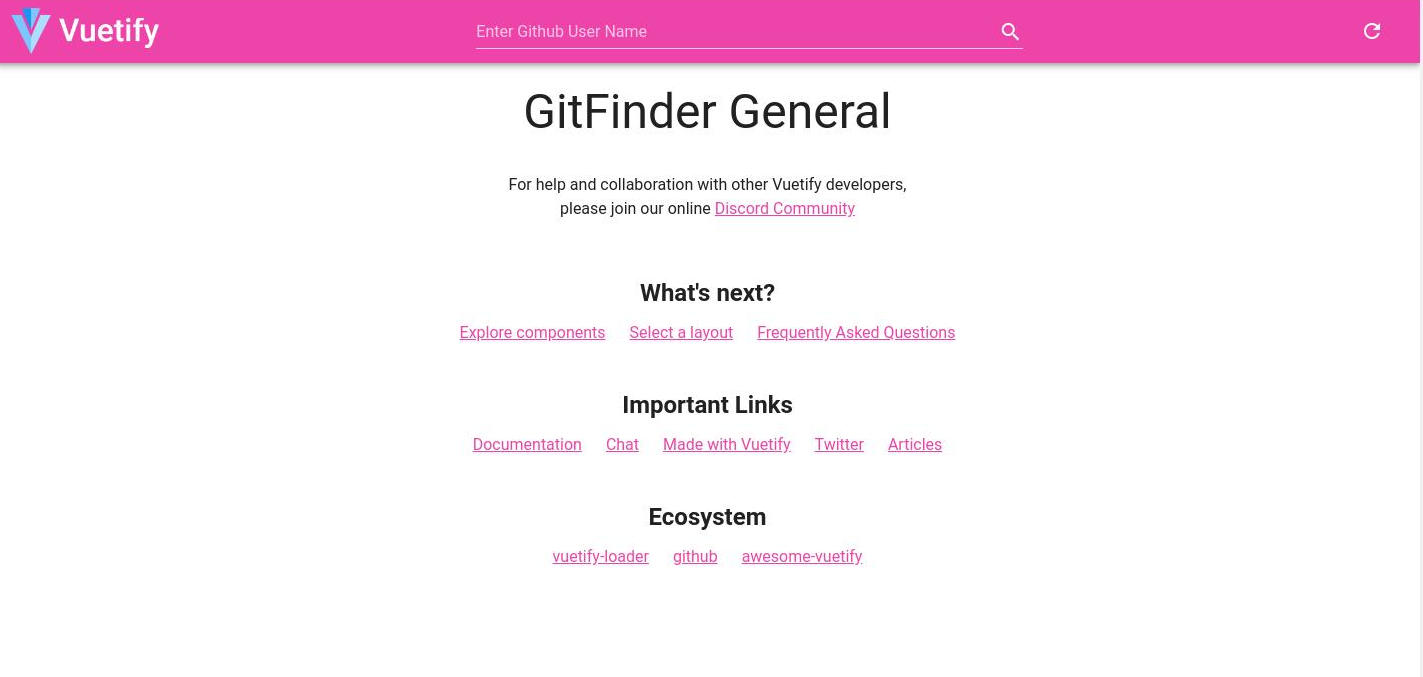
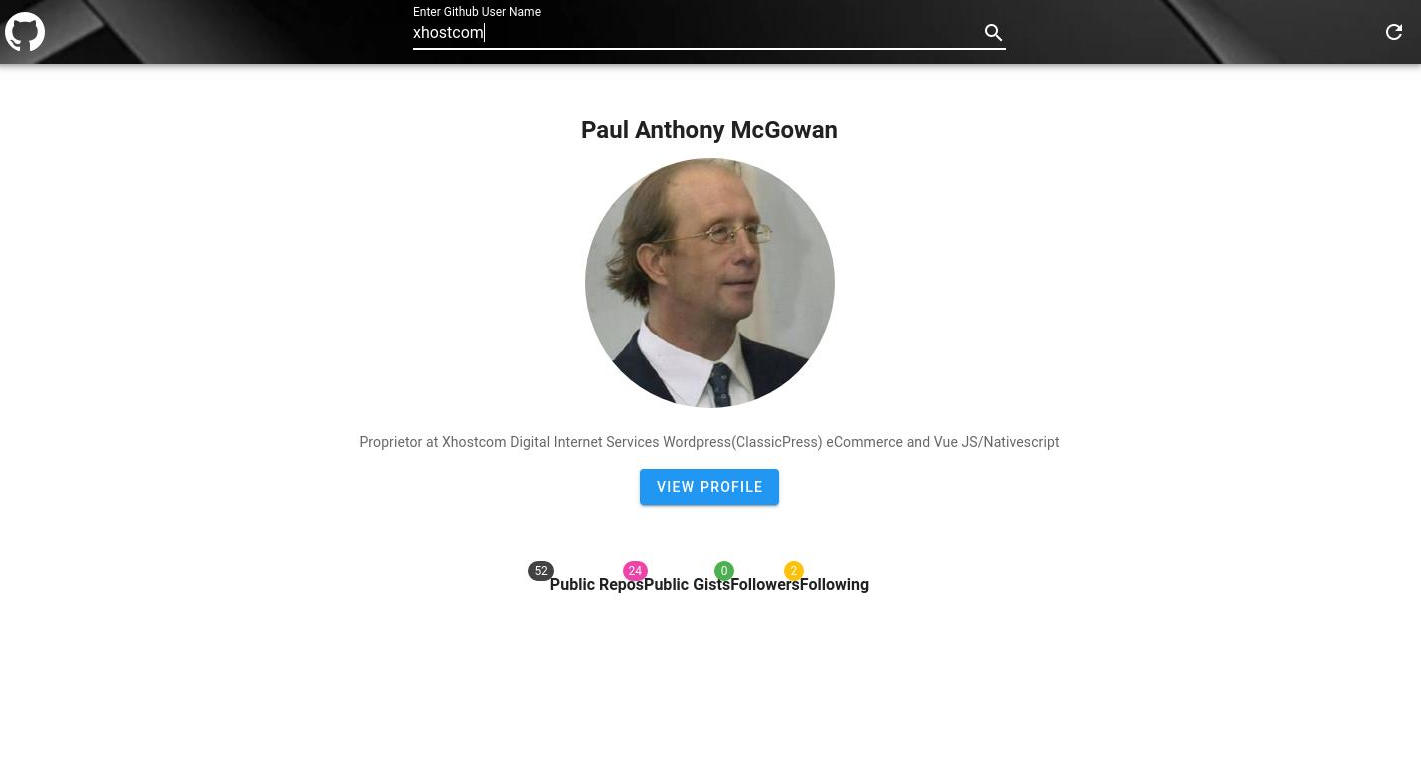
Update

Changed region(s): [[0.0, 0.0, 1.0, 0.6824], [0.3716, 0.7445, 0.6193, 0.8375]]

diff --git a/src/App.vue b/src/App.vue
@@ -23,47 +23,89 @@
           ></v-text-field>
          <v-spacer></v-spacer>
          <v-btn
-        to="/"
-        target="_blank"
-        text
-       icon>
+         to="/"
+         target="_blank"
+         text
+         icon>
         <v-icon>mdi-refresh</v-icon>
       </v-btn>
     </v-toolbar>
   </div>
      <v-content>
-      <v-layout row wrap mt-12 mb-12 justify-center align-center class="profile-search">
-      <v-container xs6 mt-12 mb-12 class="profile-details text-center">
-        <v-card>
-          <h2 class="user-title">{{ details.name }}</h2>
-        </v-card>
-          <img class="user-img" :src="details.avatar_url" width="200px;" />
-         <br />
-         <br />
-         <v-btn class="btn-dark btn-lg btn-block"><a href="#" style="color: #fff; text-decoration:none;">View Profile</a></v-btn>
-          <br />
-           <v-container xs6 mt-12 mb-12>
-            <v-card class="text-center">
-              <v-card-body>{{ details.bio }}</v-card-body>
-           </v-card>
-          </v-container>
+      <v-layout class="profile-details" mt-12 mb-12 justify-center align-center>
+       <v-card flat light justify-center align-center>
+        <h2 class="user-title text-center" justify-center align-center>{{ details.name }}</h2>
+        <img class="user-img" :src="details.avatar_url" />
+          <v-card-text>{{ details.bio }}</v-card-text>
+          <v-card-body>
+           <v-btn  v-model="hide" to="/" color="info">View Profile</v-btn>
+          </v-card-body>
            <br />
-               <v-container xs6 mt-12 mb-12>
-              <span class="badge badge-secondary"><strong>Public Repos:</strong>{{ details.public_repos }}</span>
-              <span class="badge badge-primary"><strong>Public Gists:</strong>{{ details.public_gists }}</span>
-              <span class="badge badge-success"><strong>Followers:</strong>{{ details.followers }}</span>
-              <span class="badge badge-info"><strong>Following:</strong>{{ details.following }}</span>
-              <br><br>
-              <ul class="list-group">
-             <li class="list-group-item d-flex justify-content-between align-items-center">Company: {{ details.company }}</li>
-             <li class="list-group-item d-flex justify-content-between align-items-center">Website/blog: <a href="#" target="_blank">{{ details.blog }}</a></li>
-             <li class="list-group-item d-flex justify-content-between align-items-center">Location: {{ details.location }}</li>
-             <li class="list-group-item d-flex justify-content-between align-items-center">Member Since: {{ details.created_at }}</li>
-           </ul>
-          </v-container>
-        </v-container>
+           <br />
+           </v-card>
+           </v-layout>
+    <v-layout class="profile-details" mt-12 mb-12 justify-center align-center>
+    <v-badge
+     color="secondary"
+     left>
+      <template v-slot:badge>
+        <span>{{ details.public_repos }}</span>
+      </template>
+      <span><strong> Public Repos </strong></span>
+    </v-badge>
+     &nbsp;&nbsp;
+     <v-badge
+     color="primary"
+     left>
+      <template v-slot:badge>
+        <span>{{ details.public_gists }}</span>
+      </template>
+      <span><strong> Public Gists  </strong></span>
+    </v-badge>
+     &nbsp;&nbsp;
+     <v-badge
+     color="success"
+     left>
+      <template v-slot:badge>
+        <span>{{ details.followers }}</span>
+      </template>
+      <span><strong> Followers  </strong></span>
+    </v-badge>
+     &nbsp;&nbsp;
+     <v-badge
+     color="warning"
+     left>
+      <template v-slot:badge>
+        <span>{{ details.following }}</span>
+      </template>
+      <span><strong> Following </strong></span>
+    </v-badge>
+    </v-layout>
+     <v-layout class="profile-details" mt-12 mb-12 justify-center align-center>
+    <v-row>
+      <v-card>
+      <v-list>
+     <v-subheader>REPORTS</v-subheader>
+        <v-list-item-group v-model="item" color="primary">
+          <v-list-item
+            v-for="(item, i) in items"
+            :key="i"
+            :inactive="inactive"
+          >
+            <v-list-item-avatar v-if="avatar">
+              <v-img :src="item.avatar"></v-img>
+            </v-list-item-avatar>
+            <v-list-item-content>
+              <v-list-item-title v-html="item.title"></v-list-item-title>
+              <v-list-item-subtitle v-if="twoLine || threeLine" v-html="item.subtitle"></v-list-item-subtitle>
+            </v-list-item-content>
+          </v-list-item>
+        </v-list-item-group>
+      </v-list>
+    </v-card>
+  </v-row>
      </v-layout>
-    </v-content>
+  </v-content>
   </v-app>
 </template>
 
@@ -115,7 +157,15 @@ export default {
 body {
 	font-family: sans-serif;
 }
+.profile-details {
+  text-align:center;
+  justify-content: center;
+  margin: 0 auto;
+  width: 100%;
+  max-width: 768px;
+}
 .user-img {
+  width:250px;
   border-radius: 50%;
   margin-top: 10px;
 }
@@ -123,17 +173,13 @@ body {
 .profile-details {
 display: none;
 }
-.profile-search {
-  margin-top:40px;
-}
 .repodata,
-.profile-details {
+/*.profile-details {
   width: 100%;
   text-align: center;
   margin: 0 auto;
-  margin-bottom: 30px;
   max-width: 768px;
-}
+}*/
 .repo-name {
   color: #53565A;
   font-size: 32px;
